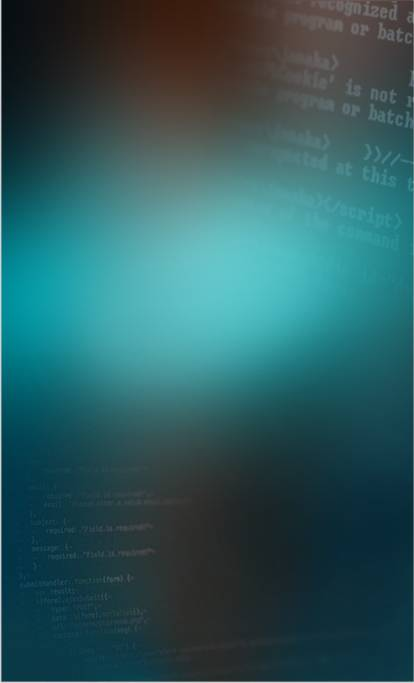
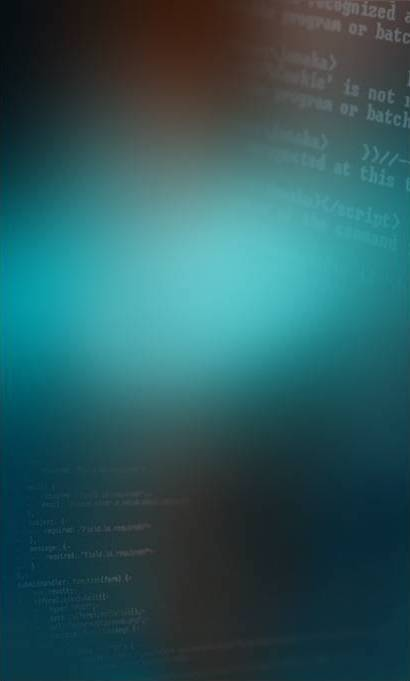
3

Changed region(s): [[0.0, 0.0, 1.0, 1.0]]

diff --git a/tst/index.html b/tst/index.html
@@ -69,6 +69,12 @@
               <li class="geniuses-item">
                 <span>Business Analyst</span>
               </li>
+              <li class="geniuses-item">
+                <span>Blockchain Developer</span>
+              </li>
+              <li class="geniuses-item">
+                <span>Business Analyst</span>
+              </li>
             </ul>
           </div>
         </div>
@@ -128,29 +134,29 @@
                 </li>
 
                 <!-- question -->
-                <!-- <li class="question">
-                  <div class="question-text">1. Which of the following statements are true for UIViewController?</div>
+                <li class="question">
+                  <div class="question-text">2. Explain the difference between copy and retain?</div>
                   <ul class="answers-list">
                     <li class="answer">
                       <label class="label">
                         <input class="input-answer" type="checkbox" value="0">
                         <span class="fake-checkbox"></span>
-                        <span class="possible-answer">View controllers manage a hierarchy of views.</span>
+                        <span class="possible-answer">Choosing The Best solution for dev</span>
                       </label>
                     </li>
                     <li class="answer">
                         <label class="label">
                           <input class="input-answer" type="checkbox" value="0">
                           <span class="fake-checkbox"></span>
-                          <span class="possible-answer">viewWillDisappear is called after animations are configured.</span>
+                          <span class="possible-answer">Retrain is almost the same thing</span>
                         </label>
                       </li>
                   </ul>
-                </li> -->
+                </li>
 
                 <!-- question -->
-                <!-- <li class="question">
-                  <div class="question-text">1. Which of the following statements are true for UIViewController?</div>
+                <li class="question">
+                  <div class="question-text">3. Which of the following statements are true for UIViewController?</div>
                   <ul class="answers-list">
                     <li class="answer">
                       <label class="label">
@@ -167,7 +173,49 @@
                         </label>
                       </li>
                   </ul>
-                </li> -->
+                </li>
+
+                <!-- question -->
+                <li class="question">
+                  <div class="question-text">4. Explain the difference between copy and retain?</div>
+                  <ul class="answers-list">
+                    <li class="answer">
+                      <label class="label">
+                        <input class="input-answer" type="checkbox" value="0">
+                        <span class="fake-checkbox"></span>
+                        <span class="possible-answer">Choosing The Best solution for dev</span>
+                      </label>
+                    </li>
+                    <li class="answer">
+                        <label class="label">
+                          <input class="input-answer" type="checkbox" value="0">
+                          <span class="fake-checkbox"></span>
+                          <span class="possible-answer">Retrain is almost the same thing</span>
+                        </label>
+                      </li>
+                  </ul>
+                </li>
+
+                <!-- question -->
+                <li class="question">
+                  <div class="question-text">5. Which of the following statements are true for UIViewController?</div>
+                  <ul class="answers-list">
+                    <li class="answer">
+                      <label class="label">
+                        <input class="input-answer" type="checkbox" value="0">
+                        <span class="fake-checkbox"></span>
+                        <span class="possible-answer">View controllers manage a hierarchy of views.</span>
+                      </label>
+                    </li>
+                    <li class="answer">
+                        <label class="label">
+                          <input class="input-answer" type="checkbox" value="0">
+                          <span class="fake-checkbox"></span>
+                          <span class="possible-answer">viewWillDisappear is called after animations are configured.</span>
+                        </label>
+                      </li>
+                  </ul>
+                </li>
               </ul>
             </div>
 

diff --git a/tst/css/style.css b/tst/css/style.css
@@ -191,8 +191,9 @@ body {
   position: relative;
   width: 100%;
   min-height: 100vh;
-  background: url("../image/bg.jpg") no-repeat center;
-  background-size: cover;
+  background: url("../image/bg.jpg") no-repeat center top;
+  background-size: 100%;
+  background-color: #0e3544;
 }
 
 .container {
@@ -200,6 +201,13 @@ body {
   width: 414px;
   margin: 0 auto;
   padding: 0 22px;
+}
+
+@media screen and (max-width: 413px) {
+  .container {
+    width: 320px;
+    padding: 0 5px;
+  }
 }
 
 .single-container {
@@ -233,6 +241,12 @@ body {
   z-index: 0;
 }
 
+@media screen and (max-width: 413px) {
+  .screen-preview .logo-wrap {
+    width: 170px;
+  }
+}
+
 .screen-preview .logo {
   width: 100%;
 }
@@ -264,6 +278,13 @@ body {
   color: #fff;
 }
 
+@media screen and (max-width: 413px) {
+  .toggle-panel .toggle-item {
+    font-size: 13px;
+    letter-spacing: 2px;
+  }
+}
+
 .rectangle-dinamic-up {
   position: absolute;
   top: 0;
@@ -287,10 +308,9 @@ body {
 }
 
 .rectangle-dynamic-down {
-  position: absolute;
-  top: 37%;
-  left: 15px;
-  right: 15px;
+  position: relative;
+  top: -147px;
+  margin: 0 15px;
   height: 210px;
   border-width: 0 2px 2px;
   border-style: solid;
@@ -300,7 +320,7 @@ body {
 }
 
 .rectangle-dynamic-down.active {
-  top: 82%;
+  top: -45px;
   border-width: 2px;
 }
 
@@ -310,6 +330,12 @@ body {
   top: 0;
   width: 70px;
   height: 2px;
+}
+
+@media screen and (max-width: 413px) {
+  .rectangle-dynamic-down.broken-border::after, .rectangle-dynamic-down.broken-border::before {
+    width: 55px;
+  }
 }
 
 .rectangle-dynamic-down.broken-border::after {
@@ -327,6 +353,12 @@ body {
   padding: 30px;
   background-color: rgba(255, 255, 255, 0.2);
   transition: opacity 0.3s ease;
+}
+
+@media screen and (max-width: 413px) {
+  .description-list {
+    padding: 23px;
+  }
 }
 
 .description-list.hide {
@@ -351,6 +383,12 @@ body {
 
 .description-list .desc.visible {
   display: block;
+}
+
+@media screen and (max-width: 413px) {
+  .description-list .desc {
+    font-size: 14px;
+  }
 }
 
 .geniuses-list {
@@ -414,6 +452,12 @@ body {
   text-transform: uppercase;
 }
 
+@media screen and (max-width: 413px) {
+  .geniuses-list .geniuses-item span {
+    font-size: 11px;
+  }
+}
+
 .screen-testing .logo-wrap {
   margin-bottom: 60px;
   text-align: center;
@@ -430,7 +474,10 @@ body {
 
 .testing-wrap .scroll-container {
   position: relative;
-  outline: 2px solid red;
+}
+
+.testing-wrap .scroll-container::-webkit-scrollbar {
+  width: 0;
 }
 
 .testing-wrap .scroll-container.active {
@@ -446,10 +493,6 @@ body {
   height: 276px;
 }
 
-.testing-wrap .top-fixed.top-fixed-fake {
-  background-color: rgba(255, 69, 0, 0.3);
-}
-
 .testing-wrap .top-fixed.top-fixed-real {
   position: absolute;
   width: 100%;
@@ -460,6 +503,8 @@ body {
   position: fixed;
   top: 63px;
   width: 366px;
+  background-color: #4ba8af;
+  z-index: 50;
 }
 
 .testing-wrap .bg-heading {
@@ -553,7 +598,6 @@ body {
           align-items: center;
   height: calc(100% - 59px);
   background-color: rgba(255, 255, 255, 0.2);
-  outline: 1px solid black;
 }
 
 .testing-wrap .middle-heading .progress-bar {
@@ -596,6 +640,16 @@ body {
 
 .questions-list {
   display: none;
+  padding: 5px 20px;
+  background-color: rgba(255, 255, 255, 0.2);
+}
+
+.questions-list .question {
+  margin-bottom: 20px;
+}
+
+.questions-list .question:last-of-type {
+  margin-bottom: 0;
 }
 
 .questions-list .question-text {
@@ -606,7 +660,7 @@ body {
 }
 
 .questions-list .answers-list {
-  padding: 10px 50px;
+  padding: 10px 30px;
 }
 
 .questions-list .answer {
@@ -662,11 +716,6 @@ body {
   padding-left: 10px;
   font-size: 13px;
   color: #fff;
-}
-
-.questions-list {
-  height: 1500px;
-  background-color: blue;
 }
 
 .screen-testing.testing-start {
